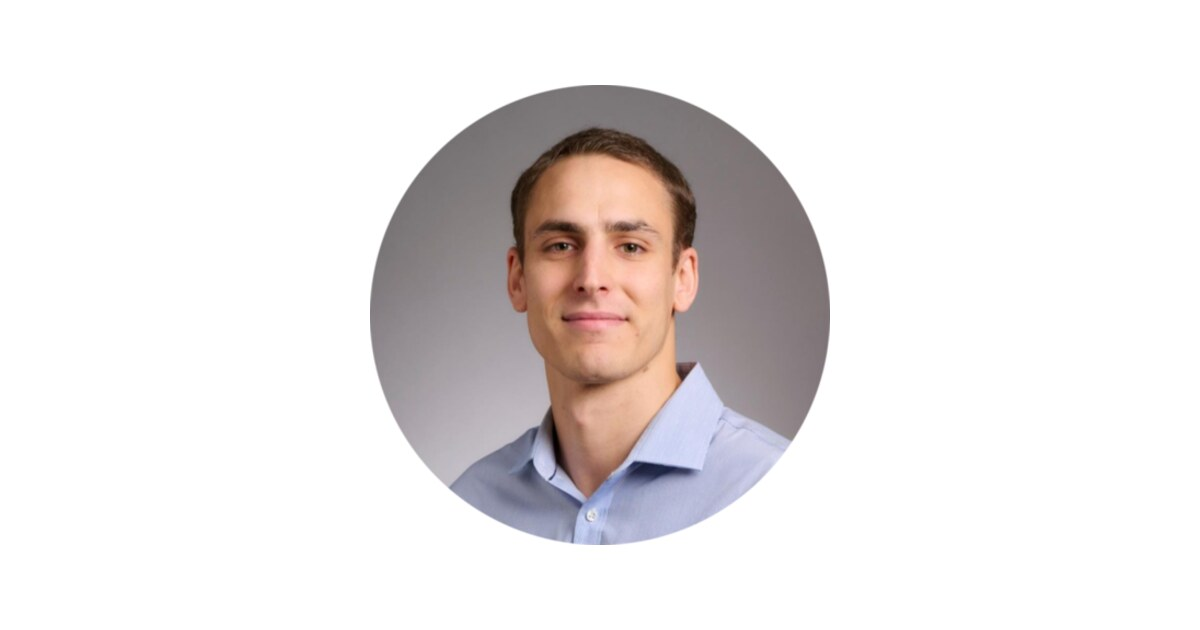
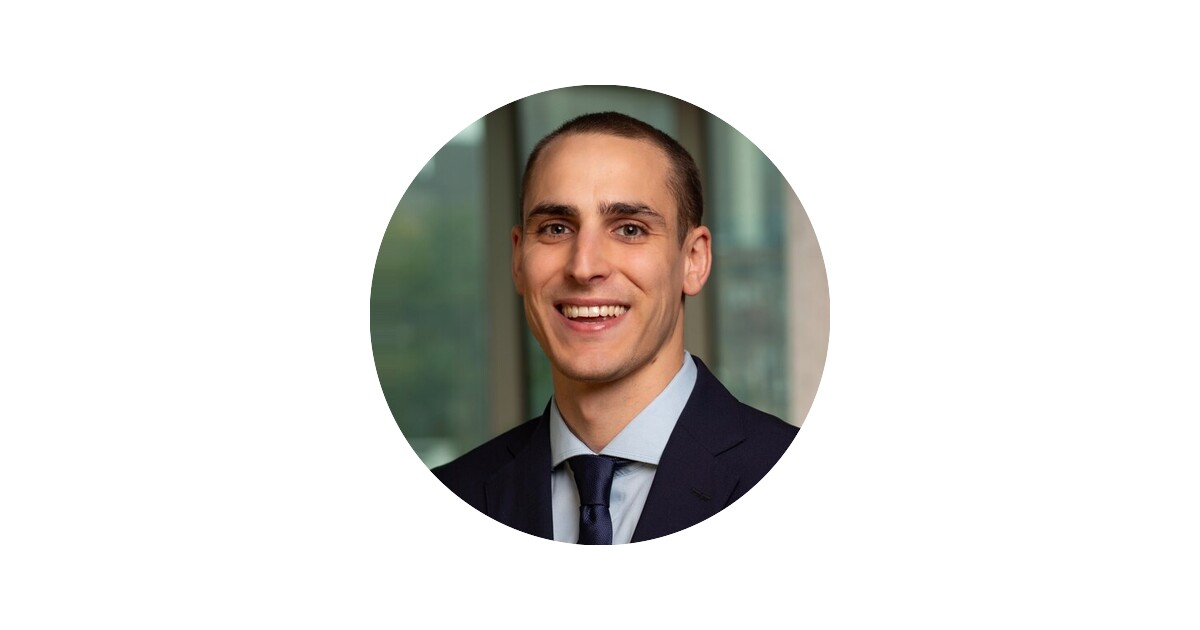
Refresh the social preview card and version its URL
og-image.jpg still carried the August headshot; the site portrait was
replaced on 28 October and the card was never regenerated. Rebuild it
from photo.jpg at the same geometry -- a 460px circle centred on a
1200x630 white canvas -- so a shared link shows the current portrait.

Bump the URL to ?v=2 so Facebook, LinkedIn and Slack refetch instead of
serving the card they already cached, and declare the image dimensions
so platforms can lay the card out on first scrape.

Changed region(s): [[0.3083, 0.1206, 0.7092, 0.8746]]

diff --git a/micro-theory.html b/micro-theory.html
@@ -18,7 +18,10 @@
 <meta property="og:url" content="https://www.lucasbelmudes.com/micro-theory.html">
 <meta property="og:title" content="Microeconomic Theory | Lucas Belmudes">
 <meta property="og:description" content="Recitation and lecture notes for the first-year graduate microeconomic theory sequence at the University of Minnesota.">
-<meta property="og:image" content="https://www.lucasbelmudes.com/og-image.jpg">
+<meta property="og:image" content="https://www.lucasbelmudes.com/og-image.jpg?v=2">
+<meta property="og:image:width" content="1200">
+<meta property="og:image:height" content="630">
+<meta property="og:image:alt" content="Portrait of Lucas Belmudes">
 <meta name="twitter:card" content="summary_large_image">
 
 <link rel="stylesheet" href="style.css?v=3">

diff --git a/teaching.html b/teaching.html
@@ -18,7 +18,10 @@
 <meta property="og:url" content="https://www.lucasbelmudes.com/teaching.html">
 <meta property="og:title" content="Teaching | Lucas Belmudes">
 <meta property="og:description" content="Teaching experience of Lucas Belmudes at the University of Minnesota, EIEF, and Universidad Torcuato Di Tella.">
-<meta property="og:image" content="https://www.lucasbelmudes.com/og-image.jpg">
+<meta property="og:image" content="https://www.lucasbelmudes.com/og-image.jpg?v=2">
+<meta property="og:image:width" content="1200">
+<meta property="og:image:height" content="630">
+<meta property="og:image:alt" content="Portrait of Lucas Belmudes">
 <meta name="twitter:card" content="summary_large_image">
 
 <link rel="stylesheet" href="style.css?v=3">

diff --git a/index.html b/index.html
@@ -18,7 +18,10 @@
 <meta property="og:url" content="https://www.lucasbelmudes.com/">
 <meta property="og:title" content="Lucas Belmudes">
 <meta property="og:description" content="PhD candidate in economics at the University of Minnesota. International macroeconomics, finance, and banking.">
-<meta property="og:image" content="https://www.lucasbelmudes.com/og-image.jpg">
+<meta property="og:image" content="https://www.lucasbelmudes.com/og-image.jpg?v=2">
+<meta property="og:image:width" content="1200">
+<meta property="og:image:height" content="630">
+<meta property="og:image:alt" content="Portrait of Lucas Belmudes">
 <meta name="twitter:card" content="summary_large_image">
 
 <link rel="stylesheet" href="style.css?v=3">
